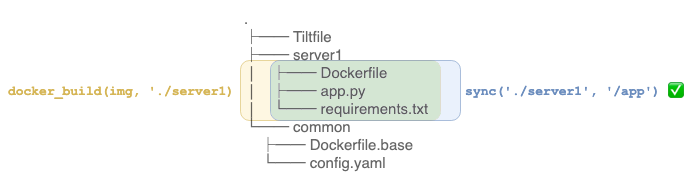
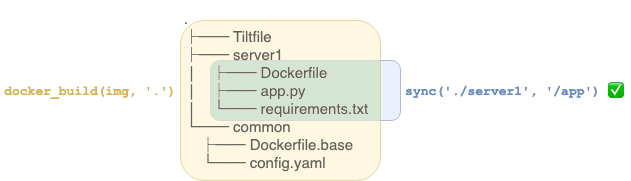
better diagram, captions, feedback from sean

Changed region(s): [[0.0, 0.1105, 0.9937, 1.0]]

diff --git a/docs/live_update_reference.md b/docs/live_update_reference.md
@@ -4,7 +4,7 @@ layout: docs
 ---
 ##### (This doc provides the technical specifications of Tilt's `LiveUpdate` functionality. For a tutorial that walks you through a sample project, see [Faster Development with Live Update (Tutorial)](live_update_tutorial.html).)
 
-When specifying how to build an image (via `docker_build()` or `custom_build()`), you may optionally pass the `live_update` arg.
+When specifying how to build an image (via `docker_build()` or `custom_build()`), you may optionally pass the `live_update` argument.
 
 `live_update` takes a list of `LiveUpdateSteps` that tell Tilt how to update a running container in place (instead of paying the cost of building a new image and redeploying).
 
@@ -15,13 +15,13 @@ The list of `LiveUpdateSteps` must be, in order:
 - 0 or 1 [`restart_container`](api.html#api.restart_container) steps
 
 When a file changes:
-   1. If it matches any of the files in a `fall_back_on` step, we will fall back to a full rebuild + deploy (i.e., the normal, non-live_update process).
-   2. Otherwise, if it matches any of the local paths in `sync` steps, a live update will be executed:
-        1. copy any changed files according to `sync` steps
-        2. for every `run` step:
+   1. If it matches any of the files in a `fall_back_on` step, we will fall back to a full rebuild + deploy (i.e. the normal, non-live_update process).
+   2. Otherwise, if it matches any of the local paths in `sync` steps, a live update will be executed as follows:
+        i. copy any changed files according to `sync` steps
+        ii. for every `run` step:
             * if the `run` specifies one or more `triggers`, execute the command iff any changed files match the given triggers
-            * else, simply execute the command
-        3. restart the container if a `restart_container` step is present. (This is tantamount to re-executing the container's `ENTRYPOINT`.)
+            * otherwise, simply execute the command
+        iii. restart the container if a `restart_container` step is present. (This is equivalent to re-executing the container's `ENTRYPOINT`.)
 
 ## LiveUpdateSteps
 Each of the functions above returns a `LiveUpdateStep` -- an object like any other, i.e. it can be assigned to a variable, etc. That means that something like this is perfectly valid syntax:
@@ -43,19 +43,29 @@ A `sync` call takes two args: the local path of a file/directory, and the remote
 #### What files can I sync? How are builds triggered?
 When you tell Tilt how to build an image, you specify some set of files to watch. In the case of a `docker_build` call, Tilt watches the directory that you pass as `context`. Your sync'd local paths must fall within that context. (If you're using `custom_build`, all of the above applies, only with `deps` in place of `context`.) Let's look at some examples:
 
-<img src="/assets/img/liveupdate-sync-illegal.png" class="no-shadow" alt="An illegal 'sync'">
+<figure>
+    <img src="/assets/img/liveupdate-sync-illegal.png" class="no-shadow" alt="An illegal 'sync'">
+    <figcaption>An illegal 'sync': attempting to sync files that aren't included in the docker_build context</figcaption>
+</figure>
 
-The `sync` above is invalid, because it attempts to sync files that we're not even watching. (To put it another way: there's no way for those files to get into the container in the first place, because they would never be included in the Docker build.) If this is functionality you need, [let us know](https://tilt.dev/contact).
+The `sync` above is invalid, because it attempts to sync files that we're not even watching (seen here highlighted in blue). To put it another way: there's no way for those files to get into the container in the first place, because they would never be included in the Docker build. (If this is functionality you need, [let us know](https://tilt.dev/contact).)
 
-<img src="/assets/img/liveupdate-sync-docker-context.png" class="no-shadow" alt="A valid use of 'sync' (all sync'd files are subsets of docker_build.context)">
+<figure>
+    <img src="/assets/img/liveupdate-sync-docker-context.png" class="no-shadow" alt="A valid use of 'sync' (all sync'd files are subsets of docker_build.context)">
+    <figcaption>A valid use of 'sync' (all sync'd files are subsets of docker_build.context)</figcaption>
+</figure>
 
-Above are some valid `sync`s. A change to any of the green files will kick off a Live Update, because they match a `sync` step. A change to any of the yellow files will kick off a full Docker build + deploy, because they're part of the Docker context but we don't have instructions on how to Live Update them. (Coming soon: a way to be to be more selective in what parts of your Docker context Tilt watches!)
+Above is an example of a valid `sync`s. A change to any of the green files will kick off a Live Update, because they match a `sync` step. A change to any of the yellow files will kick off a full Docker build + deploy, because they're part of the Docker context but we don't have instructions on how to Live Update them. (Want to be more selective in which files do/don't kick off full builds? Check out [context filters for `docker_build`](https://blog.tilt.dev/2019/06/07/better-monorepo-container-builds-with-context-filters.html).)
 
-<img src="/assets/img/liveupdate-sync-dep-images.png" class="no-shadow" alt="How to use 'sync' with multiple dependent docker images">
+<figure>
+    <img src="/assets/img/liveupdate-sync-dep-images.png" class="no-shadow" alt="How to use 'sync' with multiple dependent docker images">
+    <figcaption>An example of 'sync' used with dependent Docker images</figcaption>
+</figure>
 
-If you have multiple docker images that depend on each other, you can sync files from anywhere within the contexts of any of the images. (In the diagram above, Tilt is building two images; the blue image depends on--i.e. `FROM`'s--the yellow image.)
 
-The rule of thumb is: you can `sync` it if Tilt is watching it, and Tilt will watch it if it's in a `docker_build.context` or `custom_build.deps`.
+If you have multiple Docker images that depend on each other, you can sync files from anywhere within the contexts of any of the images. (In the diagram above, Tilt is building two images; the red image depends on--i.e. `FROM`'s--the yellow image.)
+
+The rule of thumb is: if Tilt it watching it, you can `sync` it. (Tilt will watch it if it's in a `docker_build.context` or `custom_build.deps`).
 
 
 #### Let's review
